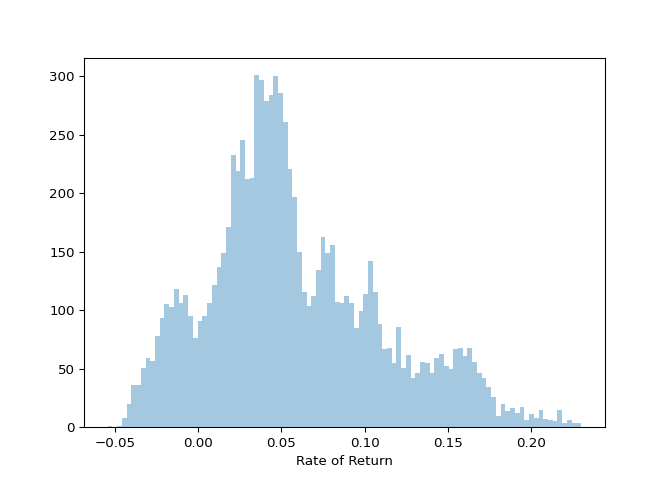
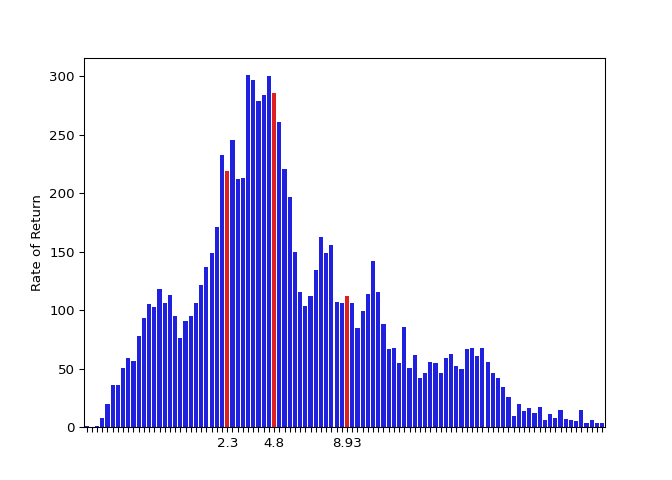
update claim1 histogram

Changed region(s): [[0.125, 0.1562, 0.9062, 0.9688], [0.0312, 0.4062, 0.0625, 0.625]]

diff --git a/plot.py b/plot.py
@@ -50,8 +50,7 @@ def plot_density(s: Series, n=100, round_to=2, num_quantiles=4, normalize=False)
     """
     data = s.value_counts(bins=n, sort=False, normalize=normalize).sort_index()
     mean_index = (((data.index.right - data.index.left) / 2) + data.index.left)
-    quantiles = [s.min()] + [s.quantile(p/num_quantiles)
-                             for p in np.arange(1, num_quantiles)] + [s.max()]
+    quantiles = [s.quantile(p/num_quantiles) for p in np.arange(1, num_quantiles)]
     colors = ["red" if any([q in x for q in quantiles]) else "blue" for x in data.index]
     barplot = sns.barplot(x=mean_index, y=data, palette=colors, ci=None)
     new_xlabels = ["" for x in data.index]
@@ -61,7 +60,7 @@ def plot_density(s: Series, n=100, round_to=2, num_quantiles=4, normalize=False)
     while i < len(data.index):
         # xticklabels[i].set_rotation("vertical")
         if q_j < len(quantiles) and quantiles[q_j] in data.index[i]:
-            new_xlabels[i] = round(quantiles[q_j], round_to)
+            new_xlabels[i] = round(quantiles[q_j]*100, round_to)
             q_j += 1
         else:
             i += 1

diff --git a/README.md b/README.md
@@ -54,8 +54,8 @@ So here are my goals for this project.
 ### Fine print
 
 This project is very much a work in progress. In what follows, I ignore
-investment fees, taxes, dividends and all other cash payouts from
-holding assets.
+inflation, investment fees, taxes, dividends and all other cash payouts
+from holding assets.
 
 Rates of return are based on the *Adj Close* values.
 
@@ -83,8 +83,9 @@ investment in the TSX on some trading day from June 29, 1979 to April
 24, 2015? Let’s look at the distribution of 5-year annualized rates of
 return in that time period.
 
-![](README_files/figure-gfm/unnamed-chunk-3-1.png)<!-- --> Note: in the
-histogram above, 0 indicates no grows after 5 years.
+![](README_files/figure-gfm/unnamed-chunk-3-1.png)<!-- -->
+
+Note: in the histogram above, 0 indicates no grows after 5 years.
 
 As can be gleaned from the histogram above, the average return is
 actually higher than what most people would get, assuming they invested
